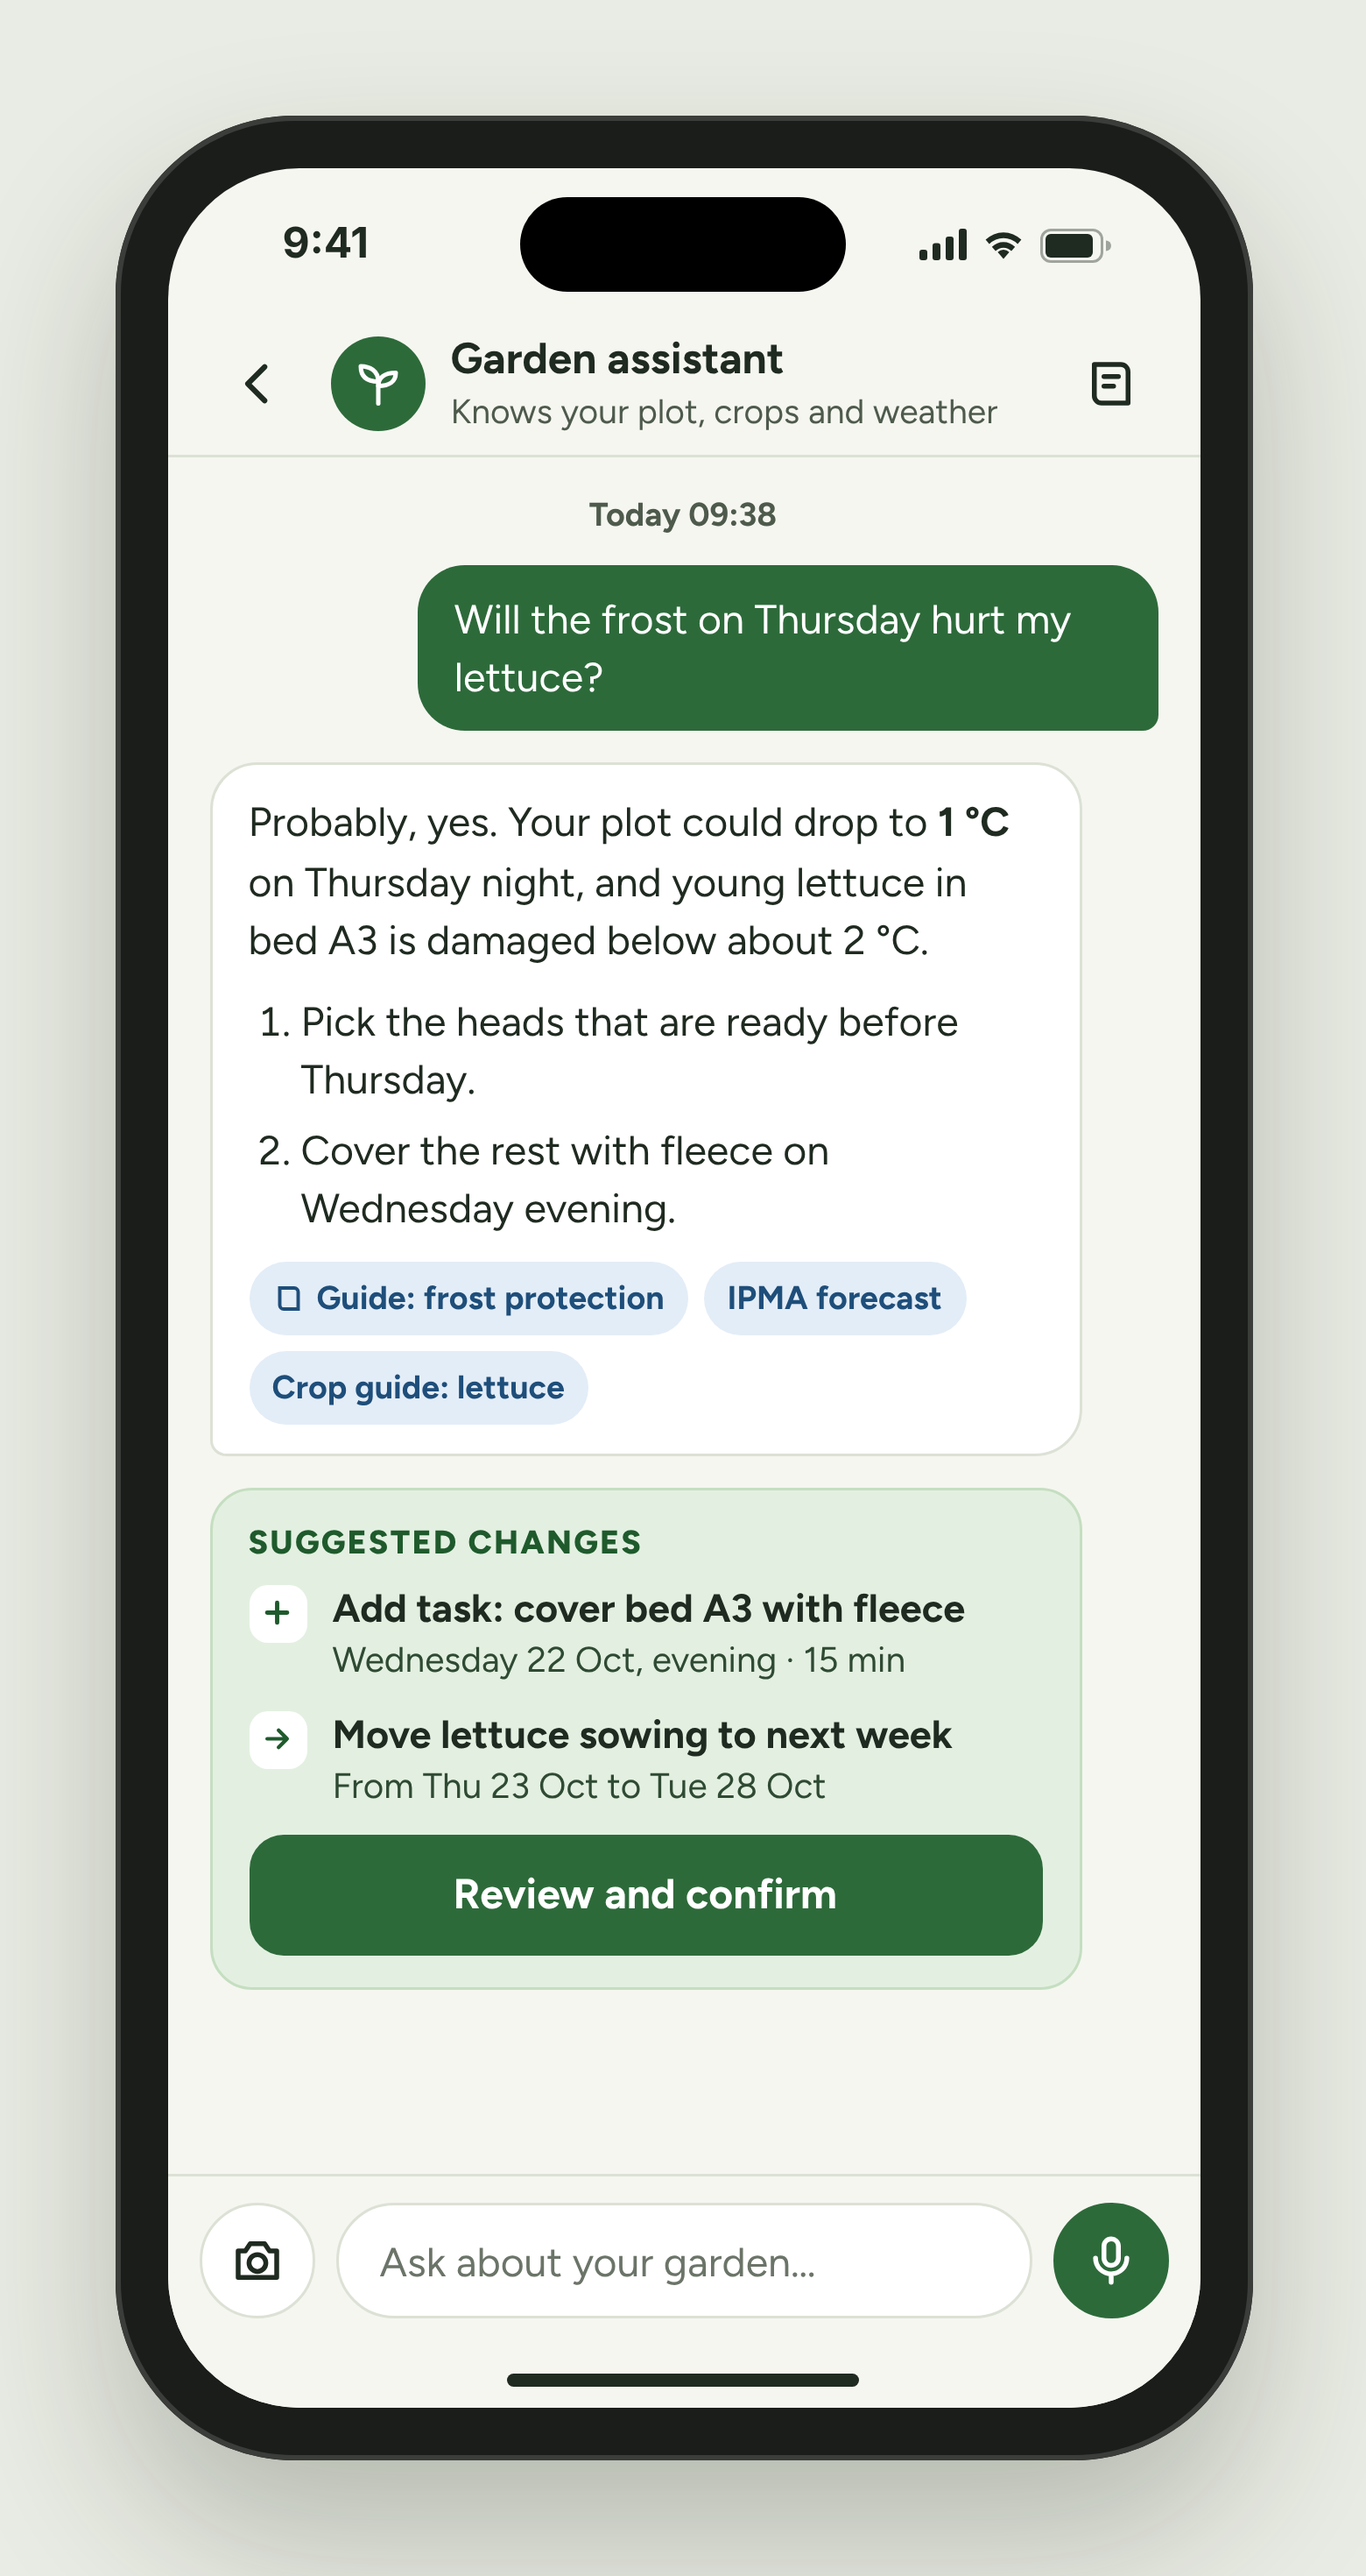
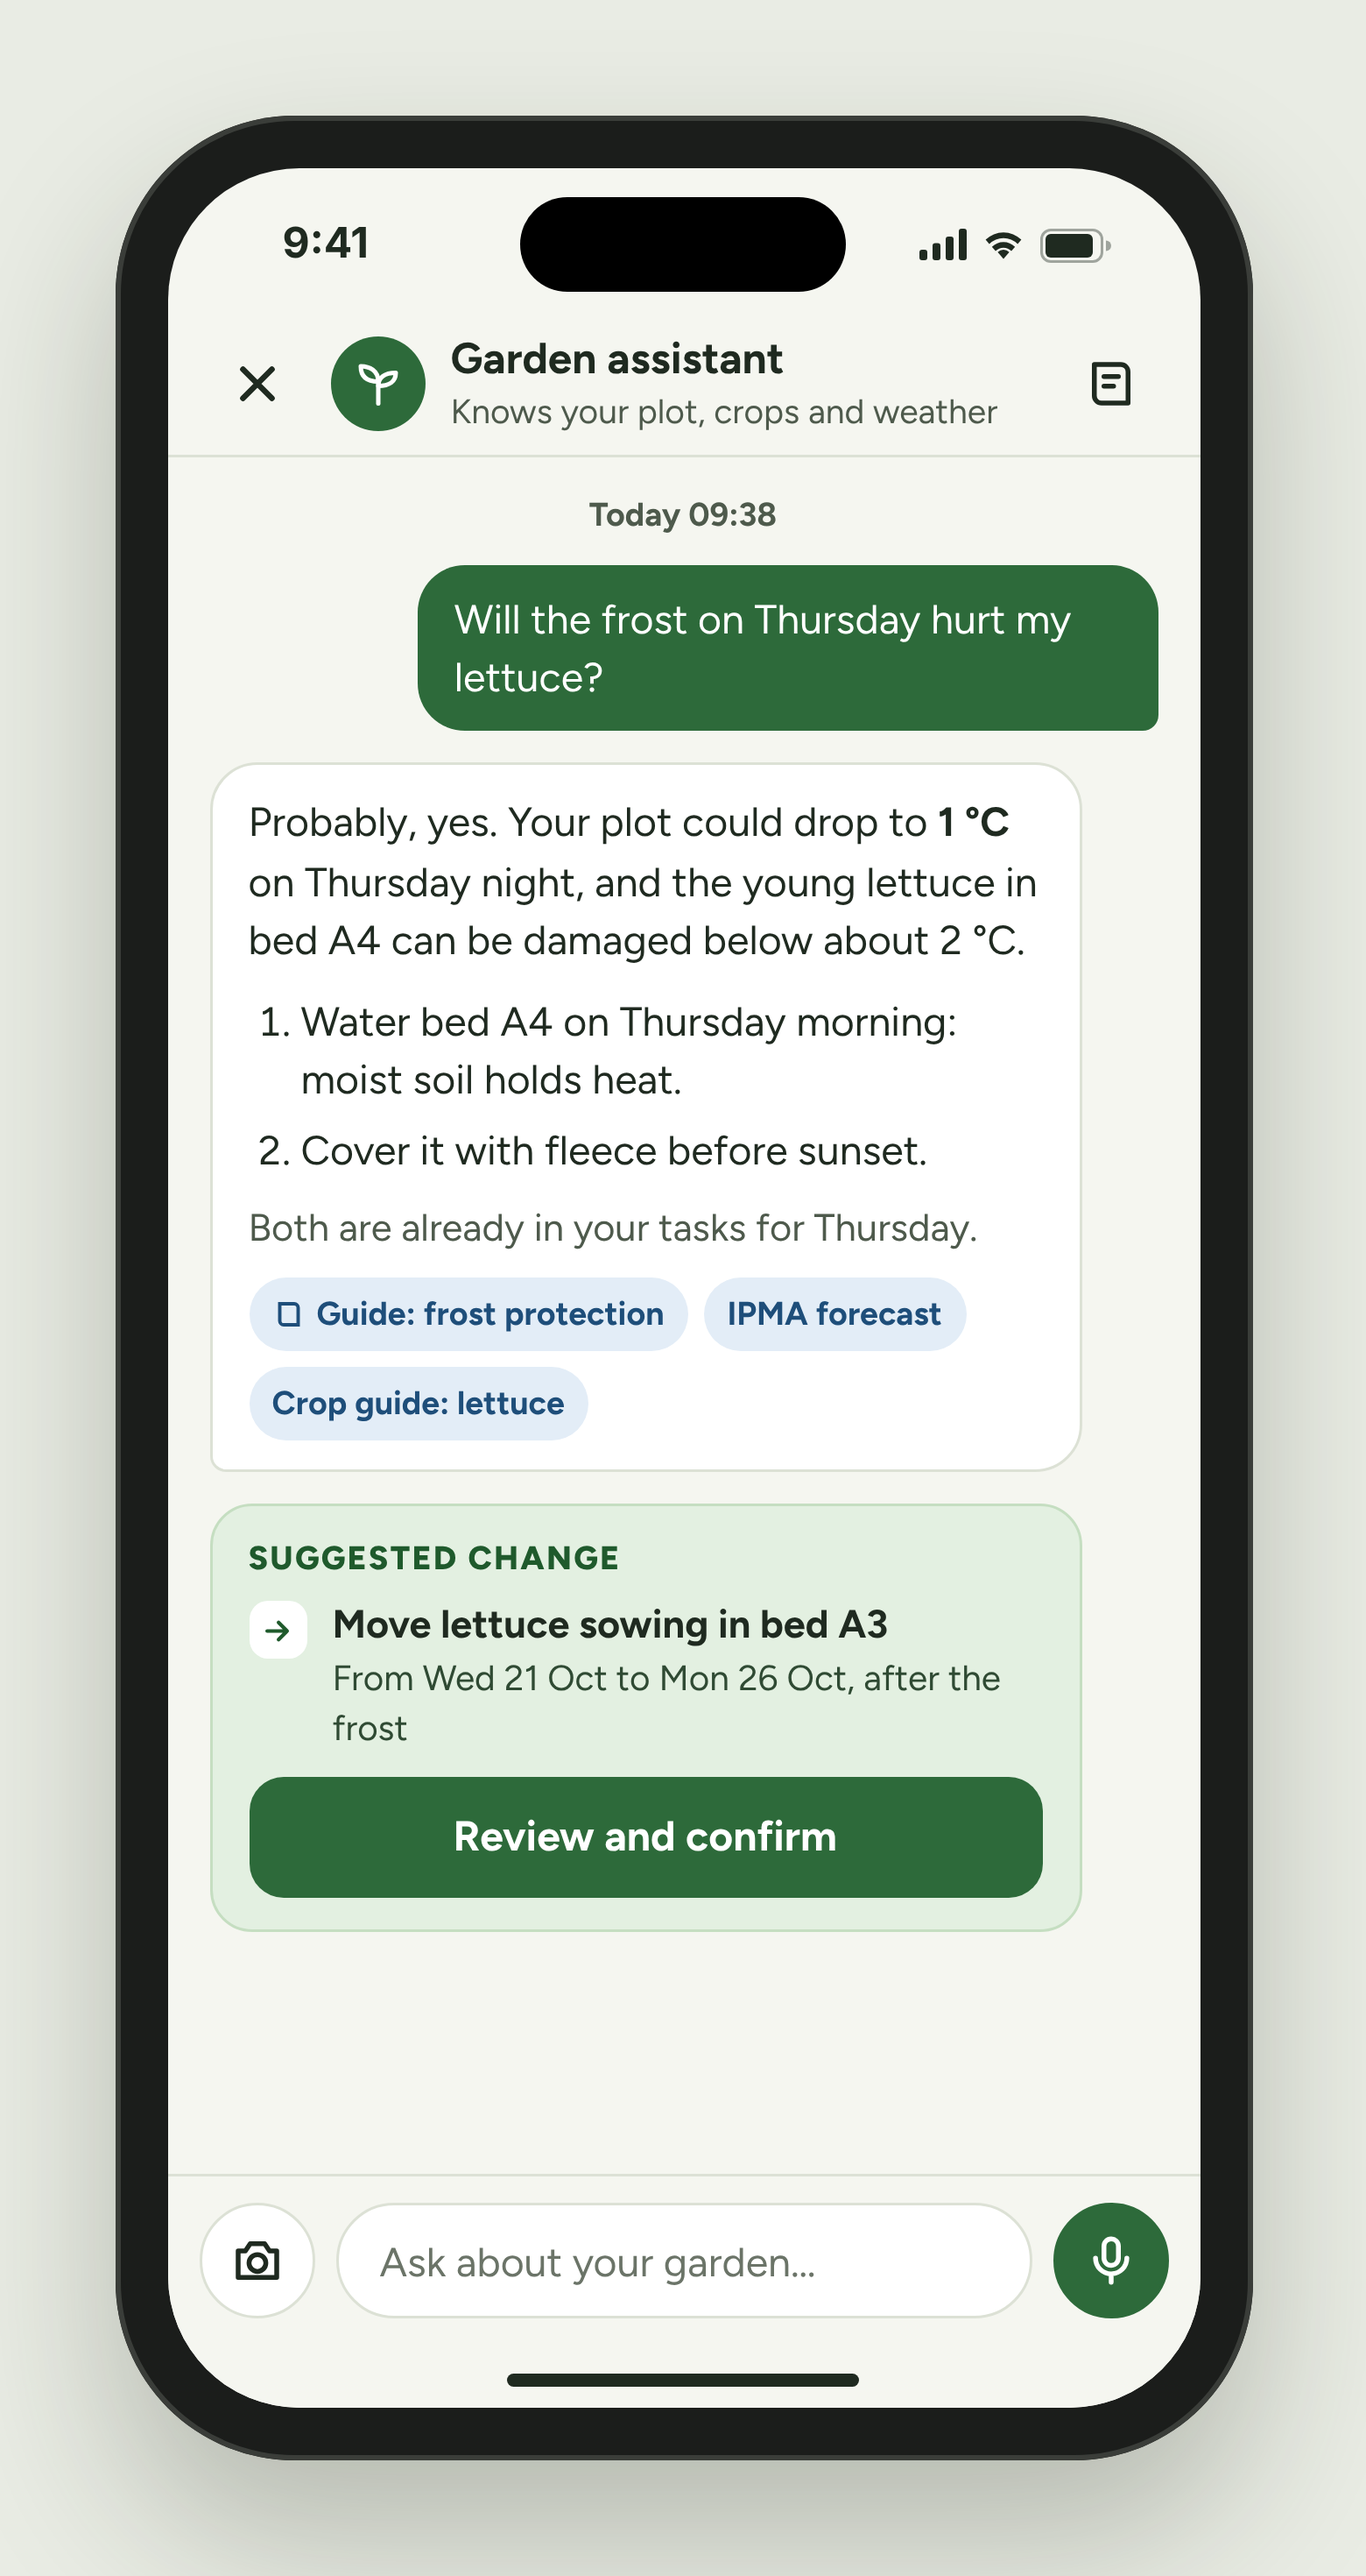
Design D6 assistant chat: answer matches the frost plan for bed A4, suggestion matches B6, close button
Claude-Session: https://claude.ai/code/session_015NynAjU4naPZwzmeuGazot

Changed region(s): [[0.1538, 0.3405, 0.7692, 0.7738], [0.1846, 0.1238, 0.2154, 0.1548]]

diff --git a/design/source/D6-assistant-chat.html b/design/source/D6-assistant-chat.html
@@ -42,7 +42,7 @@
   </div>
 
   <div class="nav">
-    <div class="navbtn" aria-label="Back"><svg width="22" height="22" viewBox="0 0 24 24" fill="none" stroke="#1F2A20" stroke-width="2.2" stroke-linecap="round" stroke-linejoin="round"><path d="M15 5l-7 7 7 7"/></svg></div>
+    <div class="navbtn" aria-label="Close"><svg width="22" height="22" viewBox="0 0 24 24" fill="none" stroke="#1F2A20" stroke-width="2.4" stroke-linecap="round"><path d="M6 6l12 12M18 6L6 18"/></svg></div>
     <div class="who">
       <div class="av"><svg width="20" height="20" viewBox="0 0 24 24" fill="none" stroke="#fff" stroke-width="2" stroke-linecap="round" stroke-linejoin="round"><path d="M12 21V11"/><path d="M12 11C12 6 8 4 4 4c0 4 2 7 8 7z"/><path d="M12 13c0-4 3-6 8-6 0 4-3 6-8 6z"/></svg></div>
       <div><b>Garden assistant</b><span>Knows your plot, crops and weather</span></div>
@@ -54,11 +54,12 @@
     <div class="day">Today 09:38</div>
     <div class="me">Will the frost on Thursday hurt my lettuce?</div>
     <div class="bot">
-      <span>Probably, yes. Your plot could drop to <b>1 °C</b> on Thursday night, and young lettuce in bed A3 is damaged below about 2 °C.</span>
+      <span>Probably, yes. Your plot could drop to <b>1 °C</b> on Thursday night, and the young lettuce in bed A4 can be damaged below about 2 °C.</span>
       <ol>
-        <li>Pick the heads that are ready before Thursday.</li>
-        <li>Cover the rest with fleece on Wednesday evening.</li>
+        <li>Water bed A4 on Thursday morning: moist soil holds heat.</li>
+        <li>Cover it with fleece before sunset.</li>
       </ol>
+      <span style="font-size: 14.5px; color: var(--muted)">Both are already in your tasks for Thursday.</span>
       <div class="src">
         <span><svg width="12" height="12" viewBox="0 0 24 24" fill="none" stroke="#1E4E7A" stroke-width="2.6" stroke-linecap="round"><path d="M5 4h11a3 3 0 0 1 3 3v13H8a3 3 0 0 1-3-3z"/></svg>Guide: frost protection</span>
         <span>IPMA forecast</span>
@@ -66,9 +67,9 @@
       </div>
     </div>
     <div class="prop">
-      <small>Suggested changes</small>
-      <div class="chg"><span class="plus"><svg width="13" height="13" viewBox="0 0 24 24" fill="none" stroke="#1F5A2C" stroke-width="3" stroke-linecap="round"><path d="M12 5v14M5 12h14"/></svg></span><div><b>Add task: cover bed A3 with fleece</b><span>Wednesday 22 Oct, evening · 15 min</span></div></div>
-      <div class="chg"><span class="plus"><svg width="13" height="13" viewBox="0 0 24 24" fill="none" stroke="#1F5A2C" stroke-width="2.6" stroke-linecap="round" stroke-linejoin="round"><path d="M5 12h14M13 6l6 6-6 6"/></svg></span><div><b>Move lettuce sowing to next week</b><span>From Thu 23 Oct to Tue 28 Oct</span></div></div>
+      <small>Suggested change</small>
+
+      <div class="chg"><span class="plus"><svg width="13" height="13" viewBox="0 0 24 24" fill="none" stroke="#1F5A2C" stroke-width="2.6" stroke-linecap="round" stroke-linejoin="round"><path d="M5 12h14M13 6l6 6-6 6"/></svg></span><div><b>Move lettuce sowing in bed A3</b><span>From Wed 21 Oct to Mon 26 Oct, after the frost</span></div></div>
       <div class="btn primary" style="height: 46px; font-size: 16px">Review and confirm</div>
     </div>
   </div>
